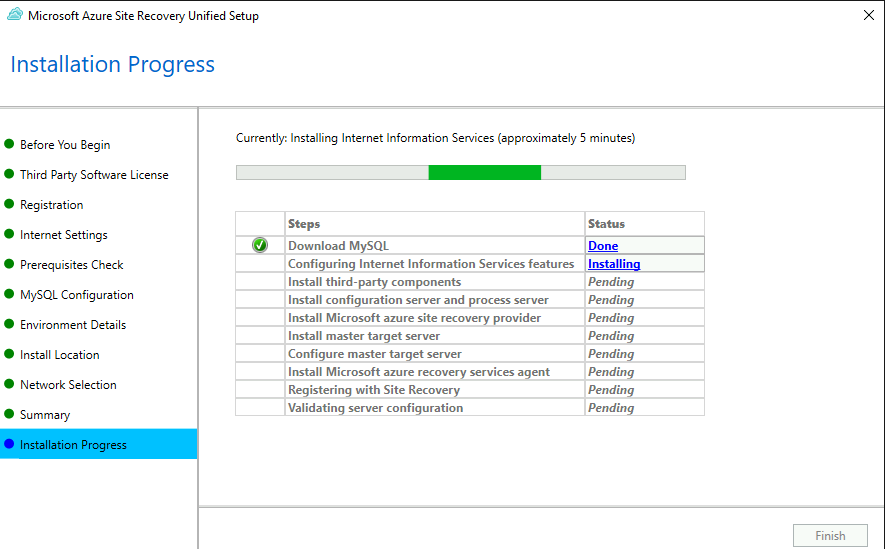
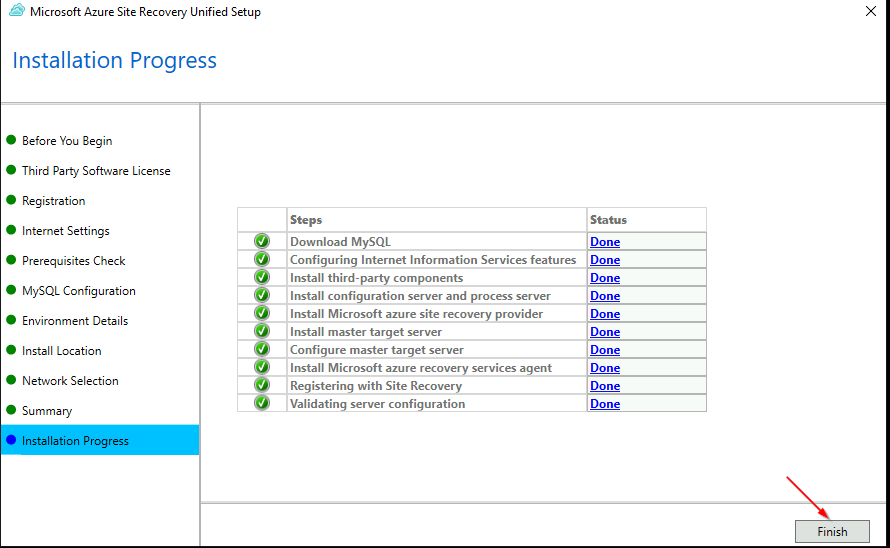
Update Challenge 5

diff --git a/03-Azure/01-03-Infrastructure/06_Migration_Datacentre_Modernization/walkthrough/challenge-5/solution.md b/03-Azure/01-03-Infrastructure/06_Migration_Datacentre_Modernization/walkthrough/challenge-5/solution.md
@@ -118,6 +118,22 @@ Wait until the installation progress is finished.
 
 ![image](./img/mig15.png)
 
+After the successfull installation a configuration server connection passphrase will be displayed. Copy the passphrase and save it as a new secret in the source-rg Resource Group KeyVault.
+
+![image](./img/mig17.png)
+
+After the installation completes, the Appliance configuration wizard will be launched automatically.
+You can add the local administrator account credentials of the source servers (stored secrets in the source KeyVault).
+
+![image](./img/mig17-1.png)
+
+The last step is to finalize the registration. Refresh the Azure Portal page where you've downloaded the installer and registration keys and select the *azreplappliance* from the drop down list and click on *Finalize registration*.
+
+![image](./img/mig18.png)
+
+### **Task 3: Install the Mobility service on the source server**
+
+
 
 
 You successfully completed challenge 5! 🚀🚀🚀
